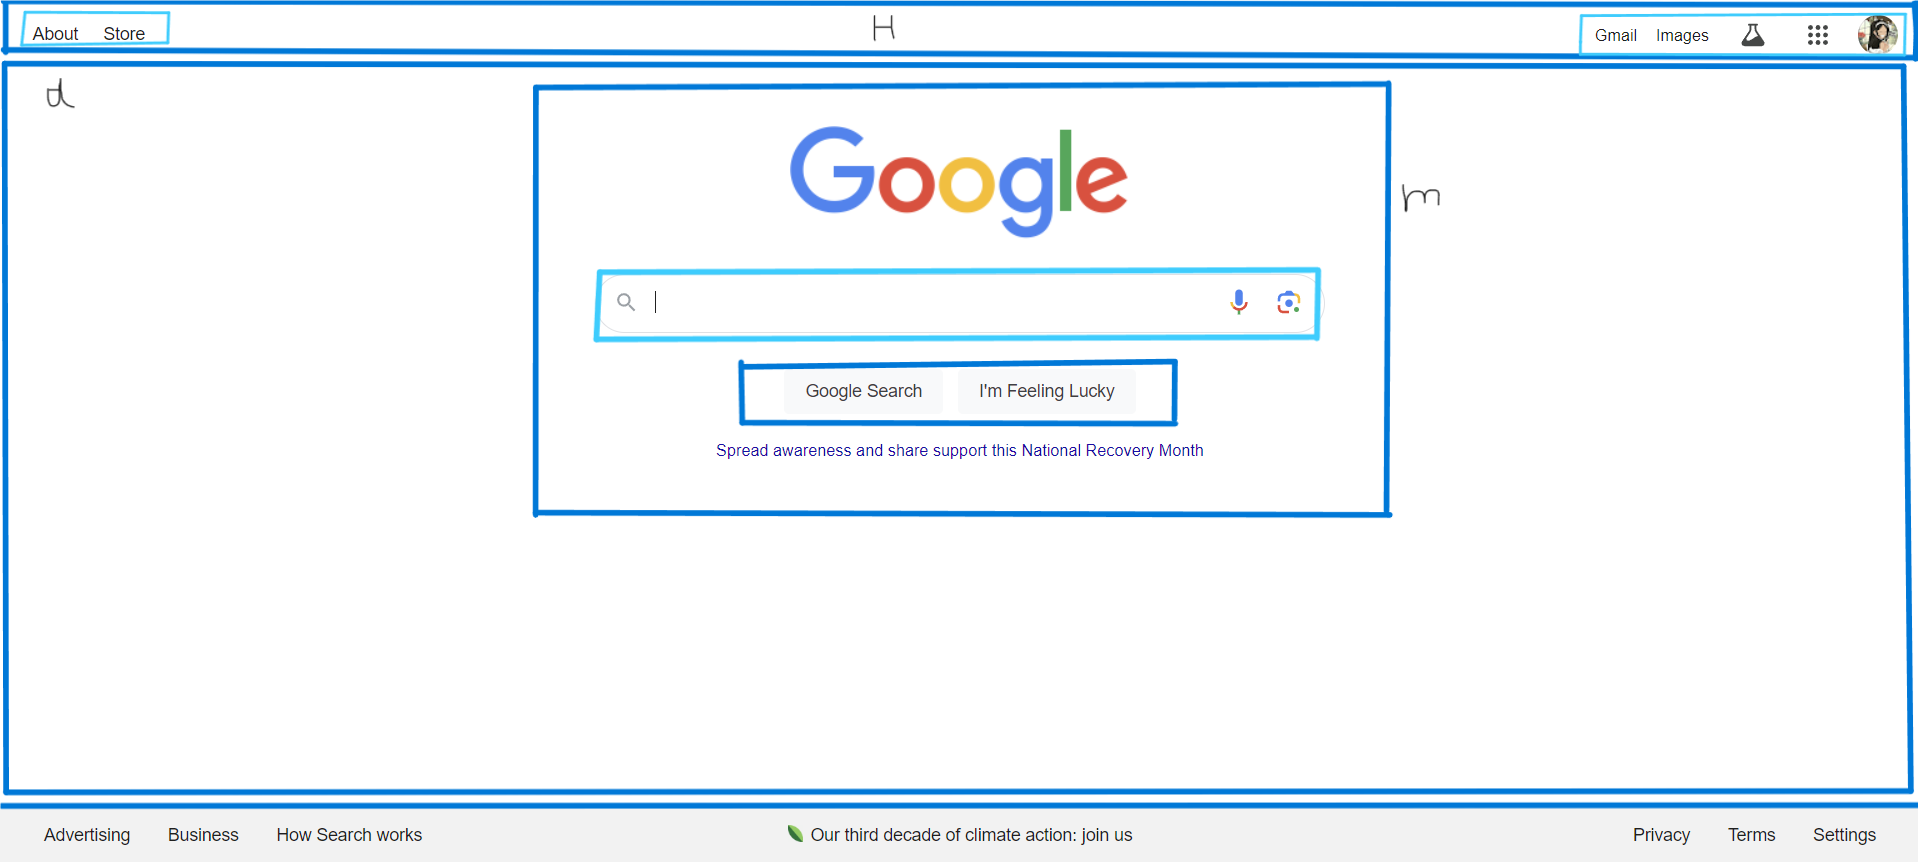
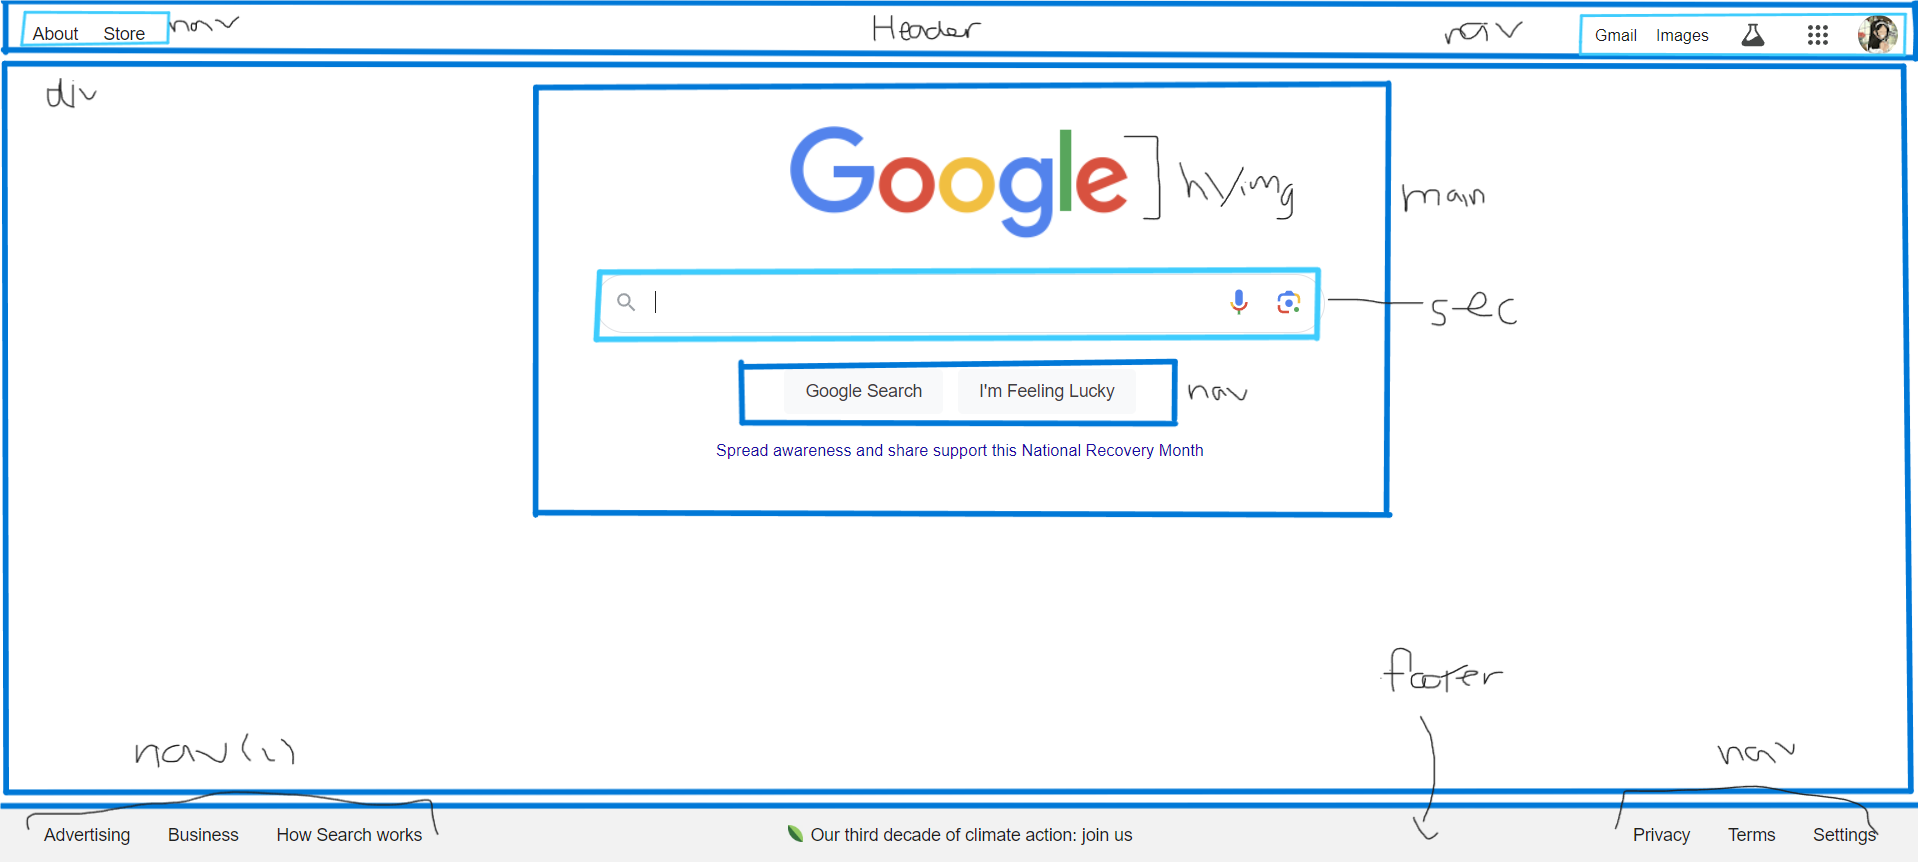
09/29/2024 (finish Google html and did video tutorial for week 2

diff --git a/week two/videotut.html b/week two/videotut.html
@@ -1,0 +1,50 @@
+!DOCTYPE <!DOCTYPE html>
+<html lang="en">
+<head>
+    <meta charset="UTF-8">
+    <meta name="viewport" content="width=device-width, initial-scale=1.0">
+    <title>Tutorial</title>
+</head>
+<body>
+
+    <!-- 3 reasons to use semantic tags instead of divs:
+        1. easier to read / scan the HTML
+        2. better for SEO
+        3. Better for screen readers / accessibility 
+    -->
+
+    <header> <!-- Introdutory content (logo)-->
+        <img src="" alt="">
+        <nav>
+            <ul> 
+                <li> 
+                    <a href=" "></a>
+                </li>
+                <li> 
+                    <a href=" "></a>
+                </li>
+            </ul>
+        </nav>
+    </header>
+
+    <main> <!-- dominant content-->
+        <section>
+            <h2> Benefits </h2>
+            <p> Text text text </p>
+        </section>
+
+        <section> 
+            <h2> How it Works </h2>
+            <p> text text text <p>
+        </section>
+
+        <article> 
+            <!-- rare-->
+        </article>
+    </main>
+
+    <footer> <!-- links usually-->
+        
+    </footer>
+</body>
+</html>

diff --git a/week one/index.html b/week one/index.html
@@ -6,7 +6,7 @@
     <title>Google</title>
 </head>
 <body>
-    
+<header>
         <ul>
             <li><a href="about.html">About</a></li>
             <li><a href="store.html">Store</a></li>
@@ -24,7 +24,27 @@
         <main>
             <h1>Google</h1>
             <input type="text">
+            <li><a href="#">Google Search</a></li>
+            <li><a href="#">I'm Feeling Lucky</a></li>
         </main>
     </div>
+
+    <footer>
+        <ul>
+            <li><a href="#">Advertising</a></li>
+            <li><a href="#">Business</a></li>
+            <li><a href="#">How Search Works</a></li>
+        </ul>
+
+        <ul>
+            <li><a href="#">Our third decade of climate action: join us</a></li>
+        </ul>
+
+        <ul>
+            <li><a href="#">Privacy</a></li>
+            <li><a href="#">Terms</a></li>
+            <li><a href="#">Settings</a></li>
+        </ul>
+    </footer>
 </body>
 </html>
